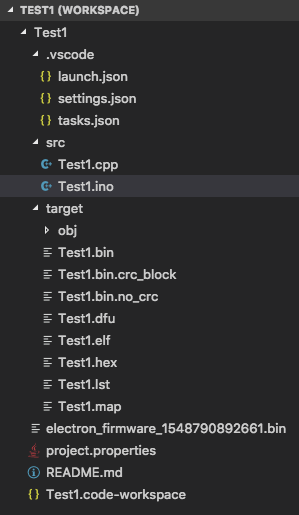
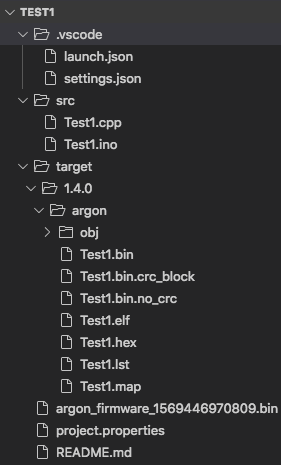
update description of ./target project directory, remove references to VSCode workspaces since we no longer create those when creating a new project

Changed region(s): [[0.0285, 0.0, 0.9964, 0.9935], [0.0569, 0.1204, 0.0854, 0.1806]]

diff --git a/src/content/tutorials/developer-tools/workbench.md b/src/content/tutorials/developer-tools/workbench.md
@@ -59,7 +59,7 @@ You can install and uninstall different versions of Device OS (and dependencies)
 
 ### Working with Particle Projects
 
-You can initialize a new project with the command, `Particle: Create New Project`. Doing so will open a new a Visual Studio Code _Workspace_, an abstract concept of a collection of files and folders. The Workspace will include a scaffold of what is needed to begin developing your Particle project, like Tasks, C++ IntelliSense, Commands, files and folders. Note that these are designed to only work when editing Particle projects as to not muddy up the rest of your editing experience. 
+You can initialize a new project with the command, `Particle: Create New Project`. Doing so will open a new a Visual Studio Code folder preconfigured with everything needed to begin developing your Particle project, like Tasks, C++ IntelliSense, Commands, files and folders. Note that these are designed to only work when editing Particle projects as to not muddy up the rest of your editing experience.
 
 A project contains a number of files. Here's what's in a small sample project:
 
@@ -68,11 +68,10 @@ A project contains a number of files. Here's what's in a small sample project:
 - The **`.vscode`** directory contains your project-specific settings. The `settings.json` file allows you to override any setting on a per-project basis. It's also where your build firmware version, target platform, and target device are saved.
 - The **`src`** directory contains your source file. If you created a `.ino` file for your main project file, after building you may see a `.cpp` file of the same name. This is because the `.ino` file is transformed into a `.cpp` before compiling. You can create multiple source files and header files in this directory.
 - Not pictured here is the **`lib`** directory, at the same level as `src`. This contains the source to libraries that you have included. If you are cloud compiling, _and_ if you have the library listed in your `project.properties` file, the cloud version of the library is used instead of the downloaded one in **`lib`**.
-- The **`target`** directory contains local build output. In particular, the `.bin` file (`Test1.bin`) is the same binary you get from downloading from the Web IDE or CLI.
+- The **`target`** directory contains local build output organized into subfolders based on the Device OS version and Particle platform your project uses. In particular, the `.bin` file (`Test1.bin`) is the same binary you get from downloading from the Web IDE or CLI.
 - The **`*.bin`** file (your filename will be different) at the top level is the result of a cloud compile for this project.
 - The **`project.properties`** file specifies all of the libraries that this project uses.
 - **`README.md`** is where you could put documentation for your project.
-- The **`.code-workspace`** is the workspace settings file for VS Code. There are no Particle-specific settings in it.
 
 If you already have an existing Particle project (with a `project.properties` file), you can import it to create the necessary VS Code files by using the command **Particle: Import Project** from the command palette.
 
